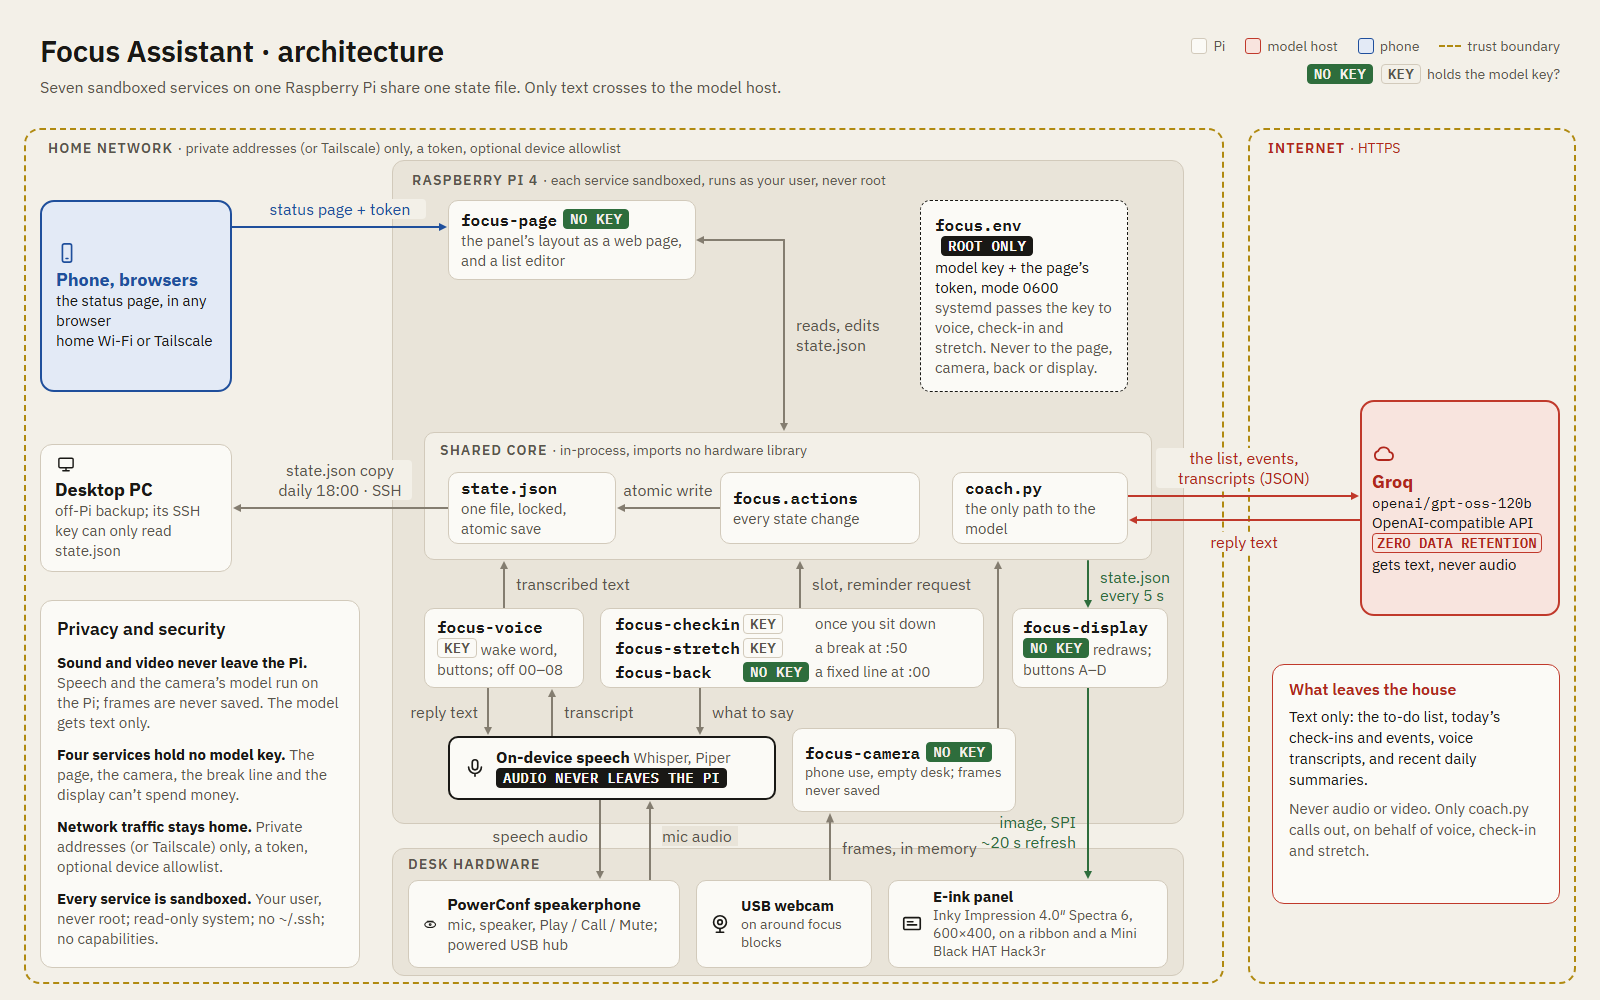
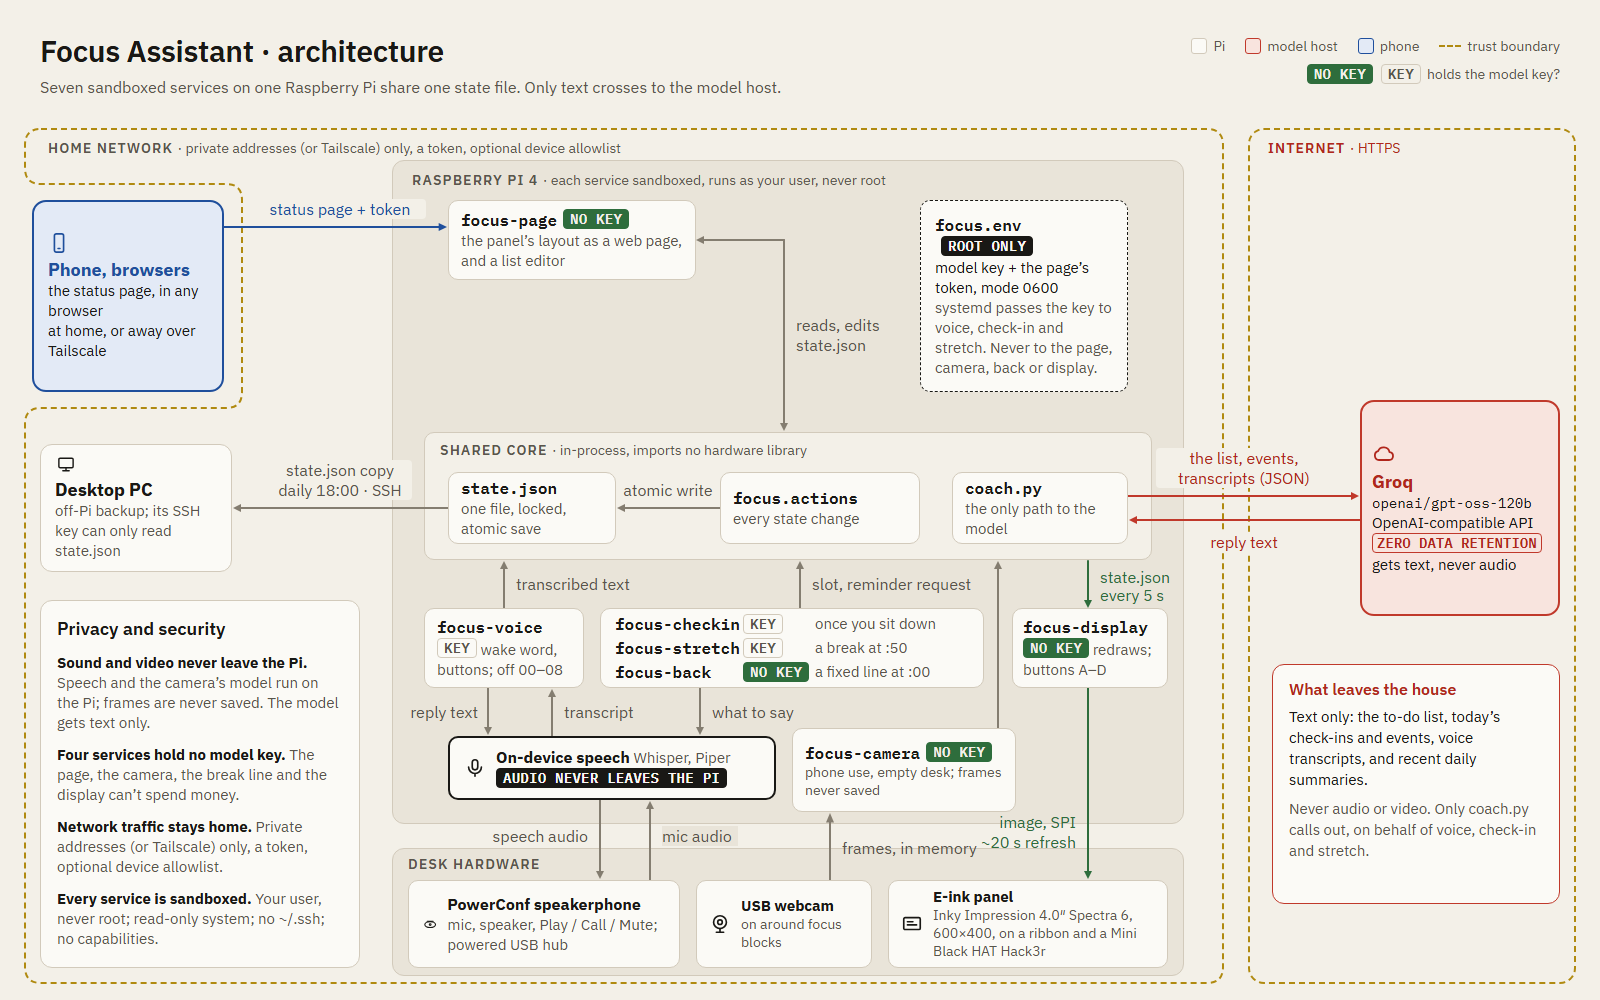
Put the browser outside the home network in the architecture diagrams
With Tailscale the phone or browser can be away from home, so the home
network's boundary now has a notch around it and the arrow crosses it.

Changed region(s): [[0.0, 0.186, 0.1562, 0.403]]

diff --git a/docs/diagrams/architecture.html b/docs/diagrams/architecture.html
@@ -28,14 +28,15 @@ a{color:#1f4f9c}a:hover{color:#191815}
 <div class="t-auto" style="position: relative; width: 1600px; height: 1000px; overflow: hidden; background: var(--bg); color: var(--ink); font-family: 'IBM Plex Sans', system-ui, sans-serif">
 
 <!-- bands -->
-<div style="position: absolute; left: 24px; top: 128px; width: 1200px; height: 856px; box-sizing: border-box; border: 2px dashed var(--boundary); border-radius: 16px"></div>
+<!-- the home network, with a notch on the left: the phone or browser may be at home or away (Tailscale) -->
+<svg width="1600" height="1000" viewBox="0 0 1600 1000" style="position: absolute; left: 0; top: 0; overflow: visible; fill: none; stroke: var(--boundary); stroke-width: 2; stroke-dasharray: 6 4" aria-hidden="true"><path d="M 41 129 H 1207 Q 1223 129 1223 145 V 967 Q 1223 983 1207 983 H 41 Q 25 983 25 967 V 424 Q 25 408 41 408 H 226 Q 242 408 242 392 V 200 Q 242 184 226 184 H 41 Q 25 184 25 168 V 145 Q 25 129 41 129 Z"></path></svg>
 <div style="position: absolute; left: 1248px; top: 128px; width: 328px; height: 856px; box-sizing: border-box; border: 2px dashed var(--boundary); border-radius: 16px"></div>
 <div style="position: absolute; left: 392px; top: 160px; width: 792px; height: 664px; box-sizing: border-box; background: var(--panel); border: 1.5px solid var(--border); border-radius: 12px"></div>
 <div style="position: absolute; left: 424px; top: 432px; width: 728px; height: 128px; box-sizing: border-box; background: var(--bg); border: 1.5px solid var(--border); border-radius: 10px"></div>
 <div style="position: absolute; left: 392px; top: 848px; width: 792px; height: 128px; box-sizing: border-box; background: var(--panel); border: 1.5px solid var(--border); border-radius: 12px"></div>
 
 <!-- arrows -->
-<svg width="215" height="8" viewBox="0 0 215 8" preserveAspectRatio="none" style="position: absolute; left: 232px; top: 223px; width: 215px; height: 8px; overflow: visible; fill: none; stroke: var(--phone); stroke-width: 2; stroke-linecap: round; stroke-linejoin: round"><defs><marker id="dc-arrow-head-filled-1" orient="auto" markerWidth="5" markerHeight="5" refX="2" refY="2" overflow="visible"><path d="M0 0 L4 2 L0 4 Z" fill="#1f4f9c" stroke="none" style="stroke: none; fill: #1f4f9c; fill: context-stroke"/></marker></defs><path d="M 0 4 L 211 4" marker-end="url(#dc-arrow-head-filled-1)"></path></svg>
+<svg width="215" height="8" viewBox="0 0 215 8" preserveAspectRatio="none" style="position: absolute; left: 224px; top: 223px; width: 223px; height: 8px; overflow: visible; fill: none; stroke: var(--phone); stroke-width: 2; stroke-linecap: round; stroke-linejoin: round"><defs><marker id="dc-arrow-head-filled-1" orient="auto" markerWidth="5" markerHeight="5" refX="2" refY="2" overflow="visible"><path d="M0 0 L4 2 L0 4 Z" fill="#1f4f9c" stroke="none" style="stroke: none; fill: #1f4f9c; fill: context-stroke"/></marker></defs><path d="M 0 4 L 211 4" marker-end="url(#dc-arrow-head-filled-1)"></path></svg>
 <svg width="88" height="8" viewBox="0 0 88 8" preserveAspectRatio="none" style="position: absolute; left: 696px; top: 236px; width: 88px; height: 8px; overflow: visible; fill: none; stroke: var(--line); stroke-width: 2; stroke-linecap: round; stroke-linejoin: round"><defs><marker id="dc-arrow-head-filled-21" orient="auto" markerWidth="5" markerHeight="5" refX="2" refY="2" overflow="visible"><path d="M0 0 L4 2 L0 4 Z" fill="#847d70" stroke="none" style="stroke: none; fill: #847d70; fill: context-stroke"/></marker></defs><path d="M 88 4 L 4 4" marker-end="url(#dc-arrow-head-filled-21)"></path></svg>
 <svg width="8" height="191" viewBox="0 0 8 191" preserveAspectRatio="none" style="position: absolute; left: 780px; top: 240px; width: 8px; height: 191px; overflow: visible; fill: none; stroke: var(--line); stroke-width: 2; stroke-linecap: round; stroke-linejoin: round"><defs><marker id="dc-arrow-head-filled-5" orient="auto" markerWidth="5" markerHeight="5" refX="2" refY="2" overflow="visible"><path d="M0 0 L4 2 L0 4 Z" fill="#847d70" stroke="none" style="stroke: none; fill: #847d70; fill: context-stroke"/></marker></defs><path d="M 4 0 L 4 187" marker-end="url(#dc-arrow-head-filled-5)"></path></svg>
 <svg width="103" height="8" viewBox="0 0 103 8" preserveAspectRatio="none" style="position: absolute; left: 617px; top: 504px; width: 103px; height: 8px; overflow: visible; fill: none; stroke: var(--line); stroke-width: 2; stroke-linecap: round; stroke-linejoin: round"><defs><marker id="dc-arrow-head-filled-7" orient="auto" markerWidth="5" markerHeight="5" refX="2" refY="2" overflow="visible"><path d="M0 0 L4 2 L0 4 Z" fill="#847d70" stroke="none" style="stroke: none; fill: #847d70; fill: context-stroke"/></marker></defs><path d="M 103 4 L 4 4" marker-end="url(#dc-arrow-head-filled-7)"></path></svg>
@@ -66,7 +67,7 @@ a{color:#1f4f9c}a:hover{color:#191815}
 </div>
 
 <!-- cards -->
-<div style="position: absolute; left: 40px; top: 200px; width: 192px; height: 192px; box-sizing: border-box; display: flex; flex-direction: column; align-items: flex-start; justify-content: center; gap: 6px; padding: 10px 14px; background: var(--phone-bg); border: 2px solid var(--phone); border-radius: 14px; font-size: 15px; line-height: 20px; color: var(--phone)"><svg width="22" height="22" viewBox="0 0 24 24" fill="none" stroke="currentColor" stroke-width="1.8" stroke-linecap="round" stroke-linejoin="round" aria-hidden="true"><rect x="7" y="2" width="10" height="20" rx="2"></rect><path d="M11 18h2"></path></svg><span><b style="font-size: 18px">Phone, browsers</b><br><span style="color: var(--ink)">the status page, in any browser</span><br><span style="color: var(--ink)">home Wi-Fi or Tailscale</span></span></div>
+<div style="position: absolute; left: 32px; top: 200px; width: 192px; height: 192px; box-sizing: border-box; display: flex; flex-direction: column; align-items: flex-start; justify-content: center; gap: 6px; padding: 10px 14px; background: var(--phone-bg); border: 2px solid var(--phone); border-radius: 14px; font-size: 15px; line-height: 20px; color: var(--phone)"><svg width="22" height="22" viewBox="0 0 24 24" fill="none" stroke="currentColor" stroke-width="1.8" stroke-linecap="round" stroke-linejoin="round" aria-hidden="true"><rect x="7" y="2" width="10" height="20" rx="2"></rect><path d="M11 18h2"></path></svg><span><b style="font-size: 18px">Phone, browsers</b><br><span style="color: var(--ink)">the status page, in any browser</span><br><span style="color: var(--ink)">at home, or away over Tailscale</span></span></div>
 <div style="position: absolute; left: 40px; top: 444px; width: 192px; height: 128px; box-sizing: border-box; display: flex; flex-direction: column; align-items: flex-start; justify-content: center; gap: 6px; padding: 10px 14px; background: var(--card); border: 1.5px solid var(--border); border-radius: 12px; font-size: 15px; line-height: 20px"><svg width="22" height="22" viewBox="0 0 24 24" fill="none" stroke="currentColor" stroke-width="1.8" stroke-linecap="round" stroke-linejoin="round" aria-hidden="true"><rect x="3" y="4" width="18" height="12" rx="1.5"></rect><path d="M8 20h8M12 16v4"></path></svg><span><b style="font-size: 18px">Desktop PC</b><br><span class="s">off-Pi backup; its SSH key can only read state.json</span></span></div>
 
 <div style="position: absolute; left: 448px; top: 200px; width: 248px; height: 80px; box-sizing: border-box; display: flex; align-items: center; padding: 8px 12px; background: var(--card); border: 1.5px solid var(--border); border-radius: 10px; font-size: 15px; line-height: 20px"><span><b class="t">focus-page</b><span class="kb nk">NO KEY</span><br><span class="s">the panel’s layout as a web page, and a list editor</span></span></div>

diff --git a/docs/diagrams/architecture-simple.html b/docs/diagrams/architecture-simple.html
@@ -23,7 +23,8 @@ a{color:#1f4f9c}a:hover{color:#191815}
 <div class="t-auto" style="position: relative; width: 1600px; height: 1000px; overflow: hidden; background: var(--bg); color: var(--ink); font-family: 'IBM Plex Sans', system-ui, sans-serif">
 
 <!-- bands -->
-<div style="position: absolute; left: 24px; top: 152px; width: 1192px; height: 740px; box-sizing: border-box; border: 2px dashed var(--boundary); border-radius: 18px"></div>
+<!-- the home network, with a notch on the left: a browser may be at home or away (Tailscale) -->
+<svg width="1600" height="1000" viewBox="0 0 1600 1000" style="position: absolute; left: 0; top: 0; overflow: visible; fill: none; stroke: var(--boundary); stroke-width: 2; stroke-dasharray: 6 4" aria-hidden="true"><path d="M 43 153 H 1197 Q 1215 153 1215 171 V 873 Q 1215 891 1197 891 H 43 Q 25 891 25 873 V 664 Q 25 646 43 646 H 222 Q 240 646 240 628 V 496 Q 240 478 222 478 H 43 Q 25 478 25 460 V 171 Q 25 153 43 153 Z"></path></svg>
 <div style="position: absolute; left: 1248px; top: 152px; width: 328px; height: 328px; box-sizing: border-box; border: 2px dashed var(--boundary); border-radius: 18px"></div>
 <div style="position: absolute; left: 360px; top: 200px; width: 800px; height: 508px; box-sizing: border-box; background: var(--panel); border: 1.5px solid var(--border); border-radius: 16px"></div>
 <div style="position: absolute; left: 384px; top: 244px; width: 752px; height: 136px; box-sizing: border-box; background: var(--bg); border: 1.5px solid var(--border); border-radius: 12px"></div>
@@ -35,7 +36,7 @@ a{color:#1f4f9c}a:hover{color:#191815}
 <svg width="8" height="51" viewBox="0 0 8 51" preserveAspectRatio="none" style="position: absolute; left: 1046px; top: 692px; width: 8px; height: 51px; overflow: visible; fill: none; stroke: var(--nokey); stroke-width: 2.5; stroke-linecap: round; stroke-linejoin: round"><defs><marker id="dc-arrow-head-filled-5" orient="auto-start-reverse" markerWidth="5" markerHeight="5" refX="2" refY="2" overflow="visible"><path d="M0 0 L4 2 L0 4 Z" fill="#847d70" stroke="none" style="stroke: none; fill: #847d70; fill: context-stroke"/></marker></defs><path d="M 4 5 L 4 46" marker-start="url(#dc-arrow-head-filled-5)" marker-end="url(#dc-arrow-head-filled-5)"></path></svg>
 <svg width="8" height="51" viewBox="0 0 8 51" preserveAspectRatio="none" style="position: absolute; left: 662px; top: 692px; width: 8px; height: 51px; overflow: visible; fill: none; stroke: var(--line); stroke-width: 2.5; stroke-linecap: round; stroke-linejoin: round"><defs><marker id="dc-arrow-head-filled-6" orient="auto" markerWidth="5" markerHeight="5" refX="2" refY="2" overflow="visible"><path d="M0 0 L4 2 L0 4 Z" fill="#847d70" stroke="none" style="stroke: none; fill: #847d70; fill: context-stroke"/></marker></defs><path d="M 4 51 L 4 5" marker-end="url(#dc-arrow-head-filled-6)"></path></svg>
 
-<svg width="152" height="8" viewBox="0 0 152 8" preserveAspectRatio="none" style="position: absolute; left: 233px; top: 558px; width: 152px; height: 8px; overflow: visible; fill: none; stroke: var(--line); stroke-width: 2.5; stroke-linecap: round; stroke-linejoin: round"><defs><marker id="dc-arrow-head-filled-7" orient="auto" markerWidth="5" markerHeight="5" refX="2" refY="2" overflow="visible"><path d="M0 0 L4 2 L0 4 Z" fill="#847d70" stroke="none" style="stroke: none; fill: #847d70; fill: context-stroke"/></marker></defs><path d="M 0 4 L 147 4" marker-end="url(#dc-arrow-head-filled-7)"></path></svg>
+<svg width="152" height="8" viewBox="0 0 152 8" preserveAspectRatio="none" style="position: absolute; left: 225px; top: 558px; width: 160px; height: 8px; overflow: visible; fill: none; stroke: var(--line); stroke-width: 2.5; stroke-linecap: round; stroke-linejoin: round"><defs><marker id="dc-arrow-head-filled-7" orient="auto" markerWidth="5" markerHeight="5" refX="2" refY="2" overflow="visible"><path d="M0 0 L4 2 L0 4 Z" fill="#847d70" stroke="none" style="stroke: none; fill: #847d70; fill: context-stroke"/></marker></defs><path d="M 0 4 L 147 4" marker-end="url(#dc-arrow-head-filled-7)"></path></svg>
 
 <!-- title -->
 <div style="position: absolute; left: 40px; top: 32px; font-size: 32px; line-height: 40px; font-weight: 600; letter-spacing: -0.01em">Focus Assistant at a glance</div>
@@ -44,7 +45,7 @@ a{color:#1f4f9c}a:hover{color:#191815}
 <!-- people and devices -->
 <div style="position: absolute; left: 48px; top: 264px; width: 184px; height: 112px; box-sizing: border-box; display: flex; flex-direction: column; align-items: center; justify-content: center; gap: 6px; padding: 10px; text-align: center; background: var(--card); border: 1.5px solid var(--border); border-radius: 16px"><svg width="36" height="36" viewBox="0 0 24 24" fill="none" stroke="currentColor" stroke-width="1.6" stroke-linecap="round" stroke-linejoin="round" aria-hidden="true"><rect x="3" y="4" width="18" height="12" rx="1.5"></rect><path d="M8 20h8M12 16v4"></path></svg><span><b style="font-size: 18px">Desktop PC</b><br><span class="s" style="font-size: 14px">backup copy</span></span></div>
 
-<div style="position: absolute; left: 48px; top: 498px; width: 184px; height: 128px; box-sizing: border-box; display: flex; flex-direction: column; align-items: center; justify-content: center; gap: 6px; padding: 10px; text-align: center; background: var(--card); border: 1.5px solid var(--border); border-radius: 16px"><svg width="36" height="36" viewBox="0 0 24 24" fill="none" stroke="currentColor" stroke-width="1.6" stroke-linecap="round" stroke-linejoin="round" aria-hidden="true"><rect x="3" y="4" width="18" height="16" rx="2"></rect><path d="M3 9h18M7 6.5h.01M10 6.5h.01"></path></svg><span><b style="font-size: 18px">Any browser</b><br><span class="s" style="font-size: 14px">laptop, desktop or phone</span></span></div>
+<div style="position: absolute; left: 40px; top: 498px; width: 184px; height: 128px; box-sizing: border-box; display: flex; flex-direction: column; align-items: center; justify-content: center; gap: 6px; padding: 10px; text-align: center; background: var(--card); border: 1.5px solid var(--border); border-radius: 16px"><svg width="36" height="36" viewBox="0 0 24 24" fill="none" stroke="currentColor" stroke-width="1.6" stroke-linecap="round" stroke-linejoin="round" aria-hidden="true"><rect x="3" y="4" width="18" height="16" rx="2"></rect><path d="M3 9h18M7 6.5h.01M10 6.5h.01"></path></svg><span><b style="font-size: 18px">Any browser</b><br><span class="s" style="font-size: 14px">laptop, desktop or phone, at home or away</span></span></div>
 
 <!-- shared core -->
 <div style="position: absolute; left: 408px; top: 276px; width: 200px; height: 88px; box-sizing: border-box; display: flex; align-items: center; gap: 12px; padding: 10px 16px; background: var(--card); border: 1.5px solid var(--border); border-radius: 12px"><svg width="36" height="36" viewBox="0 0 24 24" fill="none" stroke="currentColor" stroke-width="1.6" stroke-linecap="round" stroke-linejoin="round" aria-hidden="true"><ellipse cx="12" cy="5" rx="8" ry="3"></ellipse><path d="M4 5v14c0 1.7 3.6 3 8 3s8-1.3 8-3V5M4 12c0 1.7 3.6 3 8 3s8-1.3 8-3"></path></svg><span><b style="font-size: 18px">state.json</b><br><span class="s" style="font-size: 14px">today, later, history</span></span></div>
